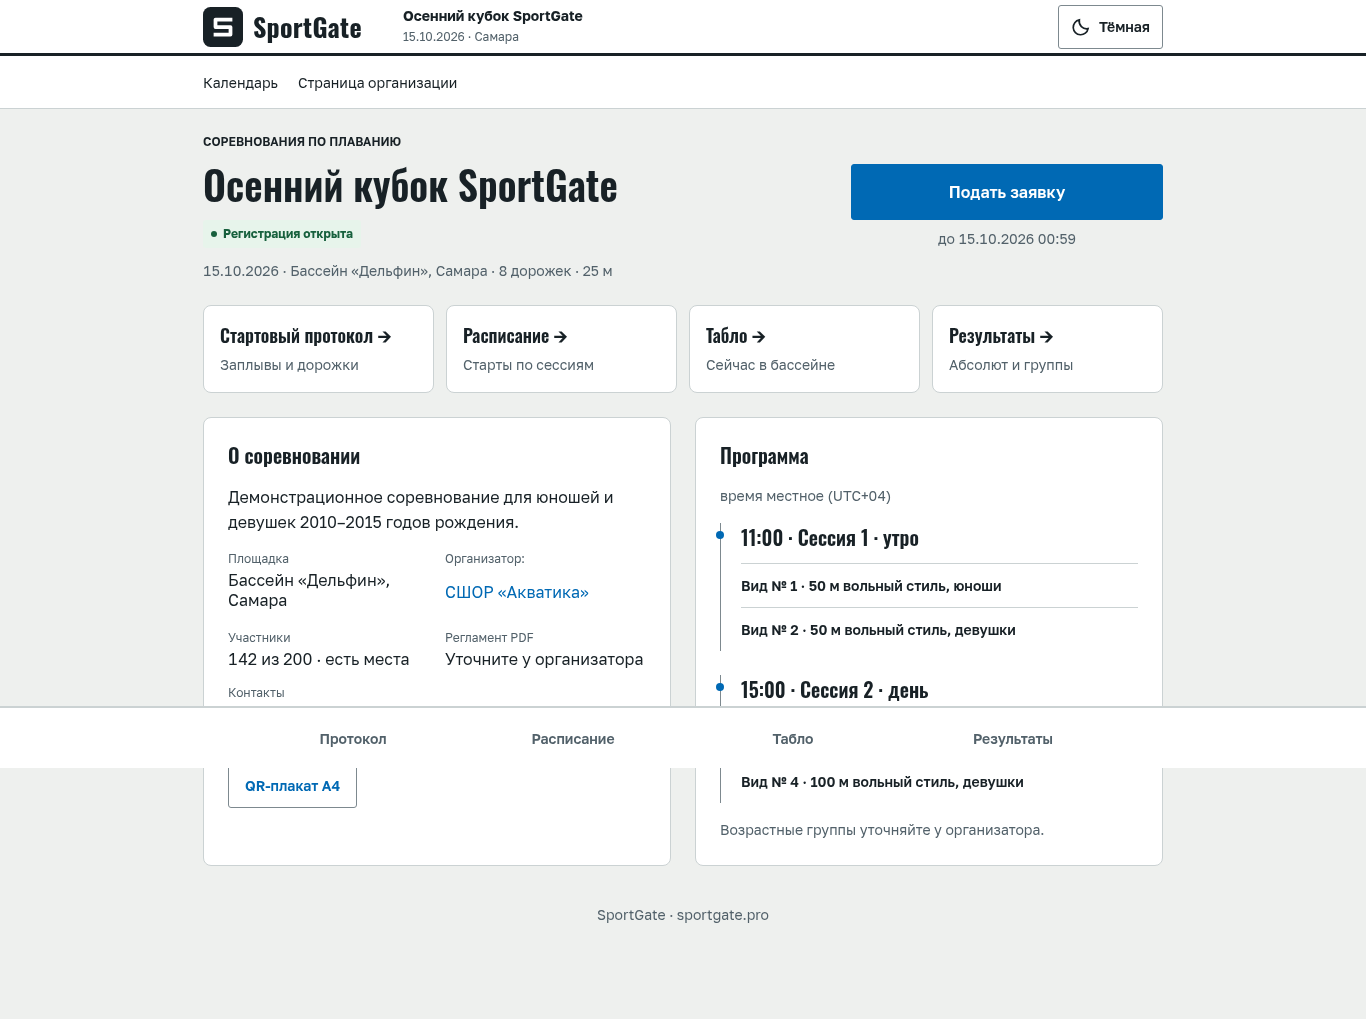
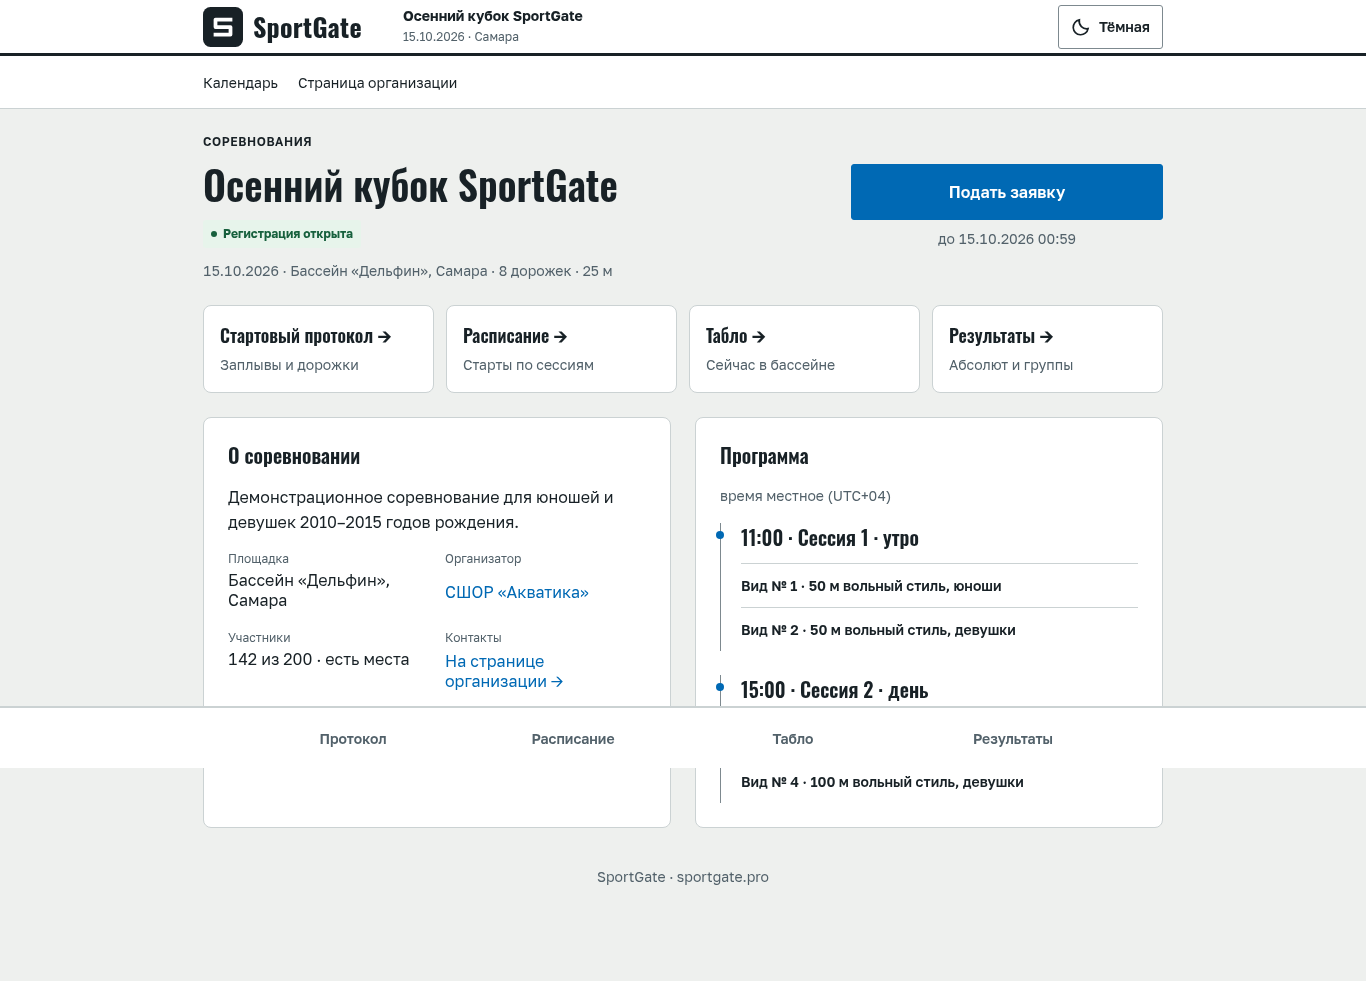
fix(public): address D04-2c review feedback

diff --git a/sport-platform/frontend/src/features/public/EventPage.tsx b/sport-platform/frontend/src/features/public/EventPage.tsx
@@ -43,7 +43,7 @@ export function PublicEventPage() {
   return <div className={styles.page}>
     <header className={styles.hero}>
       <div>
-        <p className={styles.eyebrow}>Соревнования по плаванию</p>
+        <p className={styles.eyebrow}>Соревнования</p>
         <h1 className={styles.title}>{event.title}</h1>
         <StatusBadge kind="event" code={event.status === 'FINISHED' ? 'COMPLETED' : event.status} />
         <p className={styles.facts}>{startDate}{endDate !== startDate ? ` — ${endDate}` : ''}{event.venue && <> · {event.venue.name}, {event.venue.city} · <span>{event.venue.lanes} дорожек · {event.venue.courseLength != null ? `${event.venue.courseLength} м` : 'длина бассейна не указана'}</span></>}</p>
@@ -51,7 +51,7 @@ export function PublicEventPage() {
       <div className={styles.action}>
         <Button as={Link} to={`${base}/${action[0]}`} variant="primary" size="lg">{action[1]}</Button>
         {action[0] === 'register' && <p className={styles.hint}>{event.payment?.enabled && <>Взнос {feeCopy} · </>}{event.registrationCloseAt && <>до {formatDateTime(event.registrationCloseAt, event.venue?.timezone)}</>}</p>}
-        {!event.registrationOpen && <Notice tone="warning">Регистрация закрыта{event.registrationCloseAt && <> · {formatDateTime(event.registrationCloseAt, event.venue?.timezone)}</>}.</Notice>}
+        {action[0] === 'start-list' && <Notice tone="warning">Регистрация закрыта{event.registrationCloseAt && <> · {formatDateTime(event.registrationCloseAt, event.venue?.timezone)}</>}.</Notice>}
         {event.registrationOpen && full && <Notice tone="warning">Мест нет, запись в лист ожидания.</Notice>}
       </div>
     </header>
@@ -67,11 +67,10 @@ export function PublicEventPage() {
         {event.description && <p>{event.description}</p>}
         <dl className={styles.details}>
           <KeyValue label="Площадка">{event.venue ? `${event.venue.name}, ${event.venue.city}` : 'Площадка не указана'}</KeyValue>
-          <KeyValue label="Организатор:">{organizationPath ? <Link className={styles.textLink} to={organizationPath}>{event.organization!.name}</Link> : event.organization?.name ?? 'Не указан'}</KeyValue>
+          {event.organization && <KeyValue label="Организатор">{organizationPath ? <Link className={styles.textLink} to={organizationPath}>{event.organization.name}</Link> : event.organization.name}</KeyValue>}
           {event.payment?.enabled && <KeyValue label="Взнос"><span className="fl-numeric">{feeCopy}</span> {event.payment.feeMode === 'PER_EVENT' ? 'за соревнование' : 'за дистанцию'}</KeyValue>}
           {event.maxParticipants != null && <KeyValue label="Участники"><span className="fl-numeric">{event.participantsCount ?? 0} из {event.maxParticipants}</span> · {full ? 'мест нет' : 'есть места'}</KeyValue>}
-          <KeyValue label="Регламент PDF">Уточните у организатора</KeyValue>
-          <KeyValue label="Контакты">{organizationPath ? <Link className={styles.textLink} to={organizationPath}>На странице организации →</Link> : 'Уточните у организатора'}</KeyValue>
+          {organizationPath && <KeyValue label="Контакты"><Link className={styles.textLink} to={organizationPath}>На странице организации →</Link></KeyValue>}
         </dl>
         <Button as={Link} to={`${base}/poster`} variant="secondary" className={styles.poster}>QR-плакат A4</Button>
       </section>
@@ -79,7 +78,6 @@ export function PublicEventPage() {
         <h2 id="event-program">Программа</h2>
         <p className={styles.hint}>{localTimeLabel(event.eventStartAt, event.venue?.timezone)}</p>
         {sessions.length ? <SessionTimeline sessions={sessions} timezone={event.venue?.timezone} /> : <EmptyState title="Программа пока не опубликована" action={<Button as={Link} to={`${base}/schedule`}>Открыть расписание</Button>}><p>Сессии и виды программы появятся после публикации организатором.</p></EmptyState>}
-        {event.disciplines.length > 0 && <p className={styles.hint}>Возрастные группы уточняйте у организатора.</p>}
       </section>
     </div>
   </div>

diff --git a/sport-platform/frontend/src/features/public/EventPage.module.css b/sport-platform/frontend/src/features/public/EventPage.module.css
@@ -1,14 +1,14 @@
-/* Public content uses the 960-wide grid from B2; shared layout remains owned by D04-2a. */
-.page { width: 100%; max-width: calc(var(--space-16) * 15); margin-inline: auto; display: grid; gap: var(--space-4); min-width: 0; }
+/* B2 fixes public content at 960px; explicit size approved in the D04-2c review. */
+.page { width: 100%; max-width: 960px; margin-inline: auto; display: grid; gap: var(--space-4); min-width: 0; }
 .hero { display: grid; gap: var(--space-4); }
-.eyebrow { margin: 0 0 var(--space-2); color: var(--color-text); font-size: var(--text-xs); font-weight: var(--font-weight-medium); text-transform: uppercase; }
+.eyebrow { margin: 0 0 var(--space-2); color: var(--color-text); font-size: var(--text-xs); font-weight: var(--font-weight-medium); text-transform: uppercase; letter-spacing: .05em; }
 .page :global(.fl-page-title) h1 { font-size: var(--text-xl); margin: 0; }
 .page .title { margin: 0 0 var(--space-3); font-family: var(--font-heading); font-size: var(--text-xl); font-weight: var(--font-weight-medium); line-height: var(--line-height-tight); overflow-wrap: anywhere; }
 .facts { margin: var(--space-3) 0 0; color: var(--color-text-muted); font-size: var(--text-sm); font-variant-numeric: var(--numeric-variant); }
 .action { display: grid; align-content: start; gap: var(--space-2); min-width: 0; }
 .hint { margin: 0; color: var(--color-text-muted); font-size: var(--text-sm); font-variant-numeric: var(--numeric-variant); }
 .action .hint { text-align: center; }
-.sections { display: grid; grid-template-columns: minmax(0, 1fr); gap: var(--space-3); }
+.sections { display: grid; grid-template-columns: repeat(2, minmax(0, 1fr)); gap: var(--space-3); }
 .cardLink { display: grid; align-content: start; gap: var(--space-2); min-height: calc(var(--control-h) * 2); padding: var(--space-4); border: 1px solid var(--border-subtle); border-radius: var(--radius-lg); background: var(--surface-1); color: var(--color-text); text-decoration: none; overflow-wrap: anywhere; }
 .cardLink strong { font-family: var(--font-heading); font-size: var(--font-size-18); font-weight: var(--font-weight-medium); }
 .cardLink > span { color: var(--color-text-muted); font-size: var(--text-sm); }
@@ -23,7 +23,6 @@
 .skeleton { height: var(--control-h); background: var(--surface-2); border-radius: var(--radius-sm); }
 @media (min-width: 768px) {
   .page, .content { gap: var(--space-6); }
-  .sections { grid-template-columns: repeat(2, minmax(0, 1fr)); }
   .card { padding: var(--space-6); }
   .details { grid-template-columns: repeat(2, minmax(0, 1fr)); }
 }

diff --git a/sport-platform/frontend/src/features/public/SchedulePage.test.tsx b/sport-platform/frontend/src/features/public/SchedulePage.test.tsx
@@ -6,9 +6,13 @@ import { server } from '../../test/setup'
 import { demoEvent } from '../../mocks/demo-data'
 import { SchedulePage } from './SchedulePage'
 import type { ScheduleItem } from './public.types'
+import { PublicConnectionContext } from './publicContext'
 
-function renderSchedule() {
-  return render(<MemoryRouter><Routes><Route element={<Outlet context={{ event: demoEvent }} />}><Route index element={<SchedulePage />} /></Route></Routes></MemoryRouter>)
+function scheduleTree(disconnected = false) {
+  return <PublicConnectionContext value={disconnected}><MemoryRouter><Routes><Route element={<Outlet context={{ event: demoEvent }} />}><Route index element={<SchedulePage />} /></Route></Routes></MemoryRouter></PublicConnectionContext>
+}
+function renderSchedule(disconnected = false) {
+  return render(scheduleTree(disconnected))
 }
 const path = '*/api/v1/public/events/demo/schedule'
 const row: ScheduleItem = { sessionName: 'Утро', disciplineName: '50 м вольный стиль', heatNumber: 1, sequenceInSession: 1, scheduledAt: '2026-10-15T07:00:00Z', status: 'IN_PROGRESS' }
@@ -45,9 +49,24 @@ it('distinguishes HTTP errors, retries and keeps data after a failed refresh', a
   expect(screen.getByText('11:00 · Заплыв 1')).toBeInTheDocument()
 })
 
-it('explains a network error and allows retry', async () => {
+it.each([false, true])('explains an initial network error with disconnected=%s and allows retry', async disconnected => {
   server.use(http.get(path, () => HttpResponse.error()))
-  renderSchedule()
+  renderSchedule(disconnected)
   expect(await screen.findByRole('alert')).toHaveTextContent('Нет связи')
   expect(screen.getByRole('button', { name: 'Повторить' })).toBeEnabled()
+})
+
+
+it('suppresses a stale-data error only while the layout reports a connection problem', async () => {
+  let calls = 0
+  server.use(http.get(path, () => ++calls === 1 ? HttpResponse.json([row]) : HttpResponse.error()))
+  const view = renderSchedule()
+  expect(await screen.findByText('11:00 · Заплыв 1')).toBeInTheDocument()
+  fireEvent(window, new Event('online'))
+  expect(await screen.findByRole('alert')).toHaveTextContent('Показано последнее расписание')
+  view.rerender(scheduleTree(true))
+  expect(screen.queryByRole('alert')).not.toBeInTheDocument()
+  expect(screen.getByText('11:00 · Заплыв 1')).toBeInTheDocument()
+  view.rerender(scheduleTree(false))
+  expect(screen.getByRole('alert')).toHaveTextContent('Показано последнее расписание')
 })

diff --git a/sport-platform/frontend/src/features/public/SchedulePage.tsx b/sport-platform/frontend/src/features/public/SchedulePage.tsx
@@ -1,11 +1,11 @@
-import { useCallback } from 'react'
+import { useCallback, useContext } from 'react'
 import { Link } from 'react-router'
 import { publicApi } from '../../api/public.api'
 import { Button } from '../../components/ui/Button'
 import { EmptyState } from '../../components/ui/EmptyState'
 import { Notice } from '../../components/ui/Notice'
 import { PageHeader } from '../../components/ui/PageHeader'
-import { usePublicEvent } from './publicContext'
+import { PublicConnectionContext, usePublicEvent } from './publicContext'
 import { localTimeLabel, time } from './format'
 import { SessionTimeline } from './SessionTimeline'
 import { SCHEDULE_POLL_MS, usePublicData } from './usePublicData'
@@ -13,6 +13,7 @@ import styles from './EventPage.module.css'
 
 export function SchedulePage() {
   const event = usePublicEvent()
+  const disconnected = useContext(PublicConnectionContext)
   const load = useCallback(
     (signal: AbortSignal) => publicApi.schedule(event.publicSlug, signal),
     [event.publicSlug],
@@ -37,7 +38,7 @@ export function SchedulePage() {
       <p>Загружаем расписание…</p>
       {[0, 1, 2].map(key => <div key={key} className={styles.skeleton} aria-hidden="true" />)}
     </div>}
-    {state.error && <Notice tone="danger">
+    {state.error && !(disconnected && state.data !== undefined) && <Notice tone="danger">
       <p>{state.errorStatus ? `Сервер ответил ошибкой (${state.errorStatus}). ${state.error}` : state.error}</p>
       {state.data !== undefined && <p>Показано последнее расписание. Повторите обновление.</p>}
       <Button onClick={state.retry}>Повторить</Button>

diff --git a/sport-platform/frontend/src/features/public/EventPage.test.tsx b/sport-platform/frontend/src/features/public/EventPage.test.tsx
@@ -59,3 +59,24 @@ it('shows an empty program and missing venue without inventing data', () => {
   expect(screen.getByText('Регистрация закрыта.')).toBeInTheDocument()
   expect(screen.queryByRole('link', { name: 'Подать заявку' })).not.toBeInTheDocument()
 })
+
+
+it('uses a sport-neutral eyebrow and omits unavailable public details', () => {
+  renderEvent({ organization: null })
+  expect(screen.getByText('Соревнования', { exact: true })).toBeInTheDocument()
+  expect(screen.queryByText('Регламент PDF')).not.toBeInTheDocument()
+  expect(screen.queryByText('Контакты')).not.toBeInTheDocument()
+  expect(screen.queryByText(/уточняйте у организатора|Уточните у организатора/)).not.toBeInTheDocument()
+})
+
+it('shows an organization without a public slug as text and omits its contacts link', () => {
+  renderEvent({ organization: { name: 'Клуб Волна', publicSlug: null, hasLogo: false } })
+  expect(screen.getByText('Организатор', { exact: true })).toBeInTheDocument()
+  expect(screen.getByText('Клуб Волна', { exact: true })).toBeInTheDocument()
+  expect(screen.queryByText('Контакты')).not.toBeInTheDocument()
+})
+
+it.each(['LIVE', 'COMPLETED', 'FINISHED', 'ARCHIVED'] as const)('omits the registration warning when %s has a viewing action', status => {
+  renderEvent({ status, registrationOpen: false })
+  expect(screen.queryByText(/Регистрация закрыта/)).not.toBeInTheDocument()
+})

diff --git a/sport-platform/frontend/src/features/public/Calendar.test.tsx b/sport-platform/frontend/src/features/public/Calendar.test.tsx
@@ -129,7 +129,7 @@ function directory(roles?: string[]) {
 it('public event has exactly one organizer row linking to its public page', () => {
   const event = { ...demoEvent, organization: { name: 'Клуб Волна', publicSlug: 'volna', hasLogo: false } }
   render(<MemoryRouter><Routes><Route element={<Outlet context={{ event }} />}><Route index element={<PublicEventPage />} /></Route></Routes></MemoryRouter>)
-  expect(screen.getAllByText(/Организатор:/)).toHaveLength(1)
+  expect(screen.getAllByText('Организатор', { exact: true })).toHaveLength(1)
   expect(screen.getByRole('link', { name: 'Клуб Волна' })).toHaveAttribute('href', '/o/volna')
 })
 
@@ -141,6 +141,6 @@ it('public event layout preserves role home and links to the calendar and organi
   const nav = within(screen.getByRole('navigation', { name: 'Основная навигация' }))
   expect(nav.getByRole('link', { name: 'Календарь' })).toHaveAttribute('href', '/')
   expect(await nav.findByRole('link', { name: 'Страница организации' })).toHaveAttribute('href', '/o/volna')
-  expect(screen.getAllByText(/Организатор:/)).toHaveLength(1)
+  expect(screen.getAllByText('Организатор', { exact: true })).toHaveLength(1)
   expect(screen.getByRole('navigation', { name: 'Разделы соревнования' })).toBeInTheDocument()
 })

diff --git a/sport-platform/frontend/e2e/qa06-regression.spec.ts b/sport-platform/frontend/e2e/qa06-regression.spec.ts
@@ -237,8 +237,8 @@ test('QA06-20 Samara starts keep venue time in a Moscow browser', async ({ page 
     sequenceInSession: 1, scheduledAt: '2026-10-17T10:00:00+04:00', status: 'PUBLISHED',
   }])
   await navigate(page, '/e/demo/schedule')
-  await expect(page.locator('li')).toContainText('Заплыв 1')
-  await expect(page.locator('li')).toContainText('10:00')
+  await expect(page.locator('li').filter({ hasText: 'Заплыв 1' }).last()).toContainText('Заплыв 1')
+  await expect(page.locator('li').filter({ hasText: 'Заплыв 1' }).last()).toContainText('10:00')
 })
 
 test('QA06-22 judge can discover the results panel from primary navigation', async ({ page }) => {
